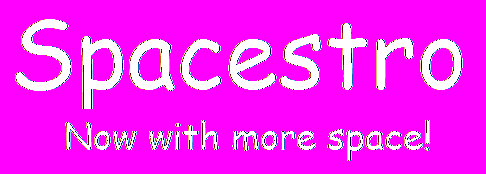
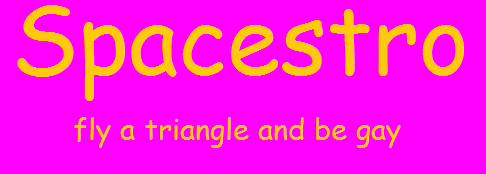
added parallax to main menu screen :D

Changed region(s): [[0.0309, 0.0287, 0.9568, 0.6322], [0.1235, 0.6609, 0.8951, 0.9195]]

diff --git a/Spacestro/Spacestro/Screen/MainMenuScreen.cs b/Spacestro/Spacestro/Screen/MainMenuScreen.cs
@@ -25,6 +25,8 @@ namespace GameStateManagement
         Texture2D bg1, bg2, title;
         GraphicsDevice graphicsDevice;
         SpriteBatch spriteBatch;
+        Vector2 cam1_position = Vector2.Zero, cam2_position = Vector2.Zero;
+        Vector2 cam_velocity = new Vector2(-1, 0);
 
         #region Initialization
 
@@ -125,10 +127,24 @@ namespace GameStateManagement
         public override void Draw(GameTime gameTime)
         {
             graphicsDevice.Clear(Color.Black);
+            cam1_position += cam_velocity;
+            cam2_position += cam_velocity;
+            if (cam1_position.X <= -142)
+                cam1_position = Vector2.Zero;
+            if (cam2_position.X <= -200)
+                cam2_position = Vector2.Zero;
 
-            this.spriteBatch.Begin(SpriteSortMode.BackToFront, BlendState.AlphaBlend, SamplerState.LinearWrap, null, null);            
-            this.spriteBatch.Draw(this.bg1, Vector2.Zero, new Rectangle(0, 0, this.graphicsDevice.Viewport.Width, this.graphicsDevice.Viewport.Height), Color.White);
-            this.spriteBatch.Draw(this.bg2, Vector2.Zero, new Rectangle(0, 0, this.graphicsDevice.Viewport.Width, this.graphicsDevice.Viewport.Height), Color.White);
+            spriteBatch.Begin(SpriteSortMode.BackToFront, BlendState.AlphaBlend, SamplerState.LinearWrap, null, null, null, 
+                Matrix.CreateTranslation(new Vector3(cam1_position * .7f, 0)));
+
+            this.spriteBatch.Draw(this.bg1, Vector2.Zero, new Rectangle(0, 0, this.graphicsDevice.Viewport.Width*2, this.graphicsDevice.Viewport.Height), Color.White);
+            spriteBatch.End();
+
+            spriteBatch.Begin(SpriteSortMode.BackToFront, BlendState.AlphaBlend, SamplerState.LinearWrap, null, null, null, 
+                Matrix.CreateTranslation(new Vector3(cam2_position * .5f, 0)));
+            
+            this.spriteBatch.Draw(this.bg2, Vector2.Zero, new Rectangle(0, 0, this.graphicsDevice.Viewport.Width*2, this.graphicsDevice.Viewport.Height), Color.White);
+
             this.spriteBatch.End();
 
             Vector2 position = new Vector2(this.graphicsDevice.Viewport.Width / 2 - this.title.Width / 2 , 50f);

diff --git a/Spacestro/Spacestro/GameCamera.cs b/Spacestro/Spacestro/GameCamera.cs
@@ -19,7 +19,6 @@ namespace Spacestro
             pos = Vector2.Zero;
             viewportWidth = viewport.Width;
             viewportHeight = viewport.Height;
-            // fix me
             _origin = new Vector2((float)(.5 * viewport.Width), (float)(.5 * viewport.Height));
             worldWidth = _worldWidth;
             worldHeight = _worldHeight;
